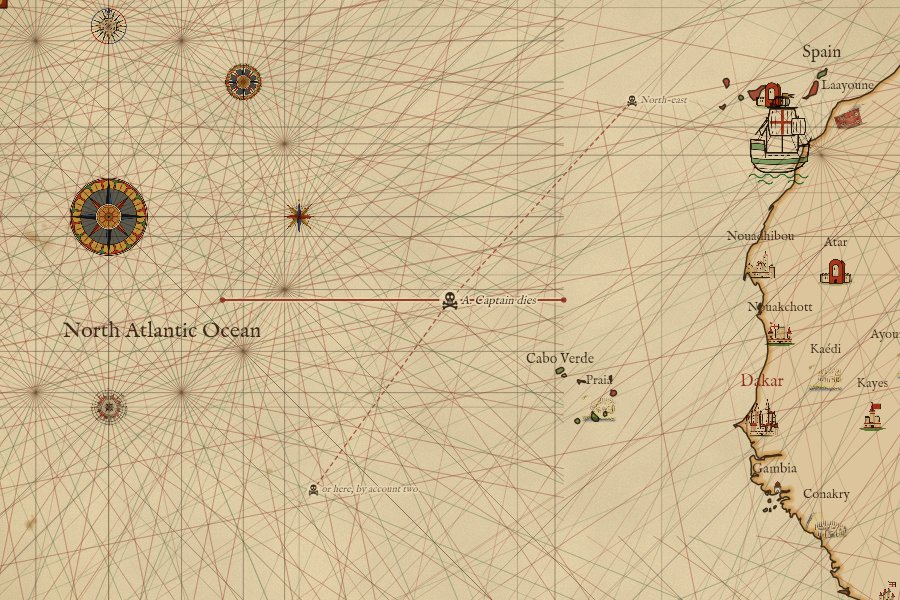
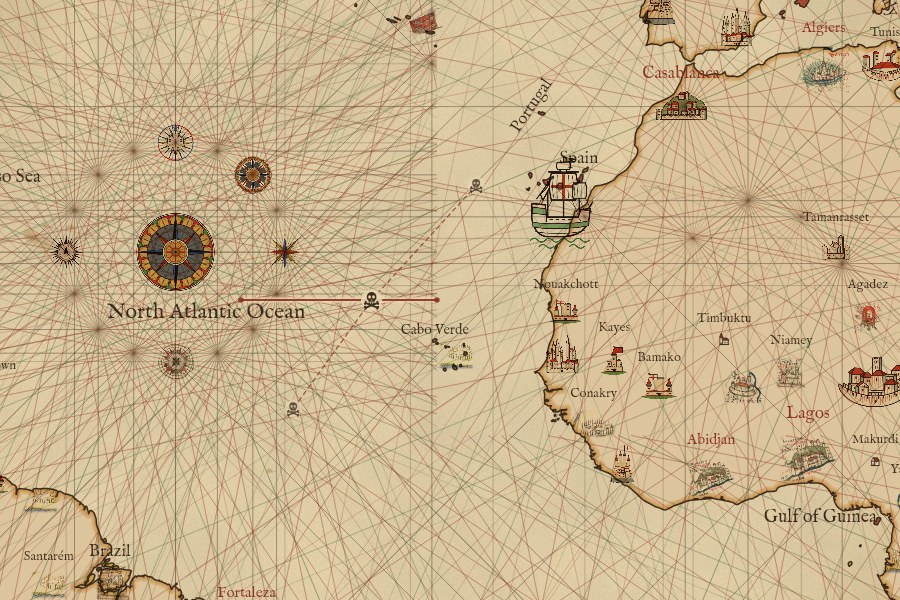
fix(voyages): on #212, alternatives draw from voyageMarks with no lettering; the tile hit-tests every voyage on
Rebased on #212: the alternative skulls' labels go (a tap opens the tile instead), and voyageMarks is the
one list of marks for drawing and for the tile, which now loops over each voyage on. The dashed tie from
an alternative to the usual skull stays, in the voyage's ink. The fixture's alternatives carry a label,
as #212's schema asks. The README describes several voyages, their inks and the voyages= link.
Golden world-z2-voyages and docs/voyages/death-alternatives.jpg regenerated.

diff --git a/docs/voyages/README.md b/docs/voyages/README.md
@@ -59,11 +59,20 @@ One file per voyage, `data/voyages/<id>.json`; `data/voyages/index.json` lists t
 
 ## What is drawn
 
-Each leg is stroked in the chart's red ink over a parchment halo, dashed by its confidence, with a
-dot at each leg's ends; a death is a skull and crossbones, and each of its `alternatives` a smaller,
-fainter skull; an event or landfall is a ring. Nothing is lettered beside a mark: a click or tap on one
-opens a small tile beside it with its heading, date, text and source, and the next touch of the map,
-Esc or the tile's × shuts it. The overlay rides in the link as `voyage=<id>`.
+Any number of voyages are drawn at once, each in its own ink: the first voyage on is the chart's red,
+and the rest are seeded on their id among the colours still free, so the same link always draws the
+same colours; a colour picked for a voyage overrides its seed. Each leg is stroked in its voyage's ink
+over a parchment halo, dashed by its confidence, with a dot at each leg's ends; the line weight is one
+for all of them (Fine, Standard, Bold or Heavy), and the halo and dots grow with it. A death is a skull
+and crossbones, and each of its `alternatives` a smaller, fainter skull tied to it by a thin dashed
+line in the voyage's ink; an event or landfall is a ring. Every track is drawn before any mark.
+Nothing is lettered beside a mark: a click or tap on one, on any voyage that is on, opens a small tile
+beside it with its heading, date, text and source, and the next touch of the map, Esc or the tile's ×
+shuts it.
+
+The overlay rides in the link as `voyages=<id>[:rrggbb],...`, in the order chosen, a picked colour
+after its id (`voyages=magellan,columbus,da-gama:16727a`), and `voyagewidth=<px>` when the weight is
+not Standard. An older `voyage=<id>` link still opens, as a list of one.
 
 ![Zheng He's skull at the middle of the Calicut–Malacca leg, its tile open, the Calicut alternative beside the coast](zheng-he-alternatives.jpg)
 
